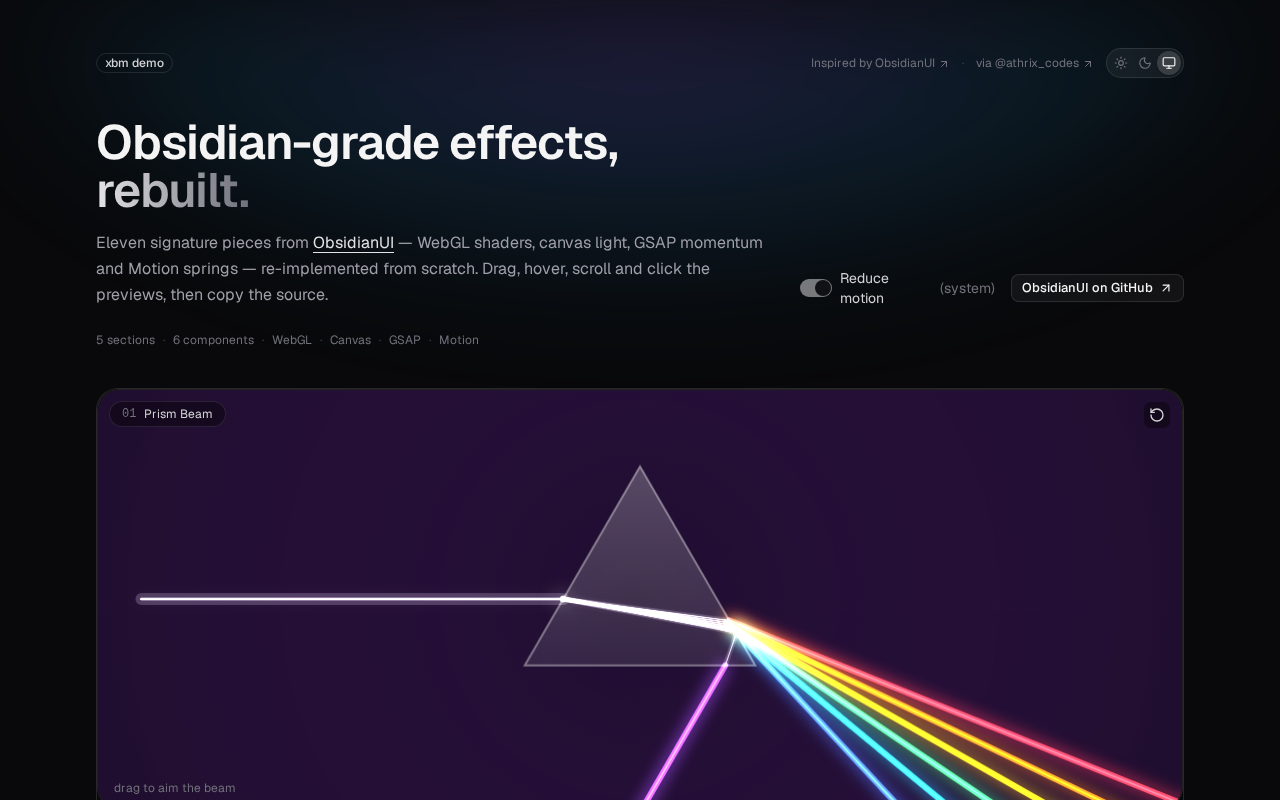
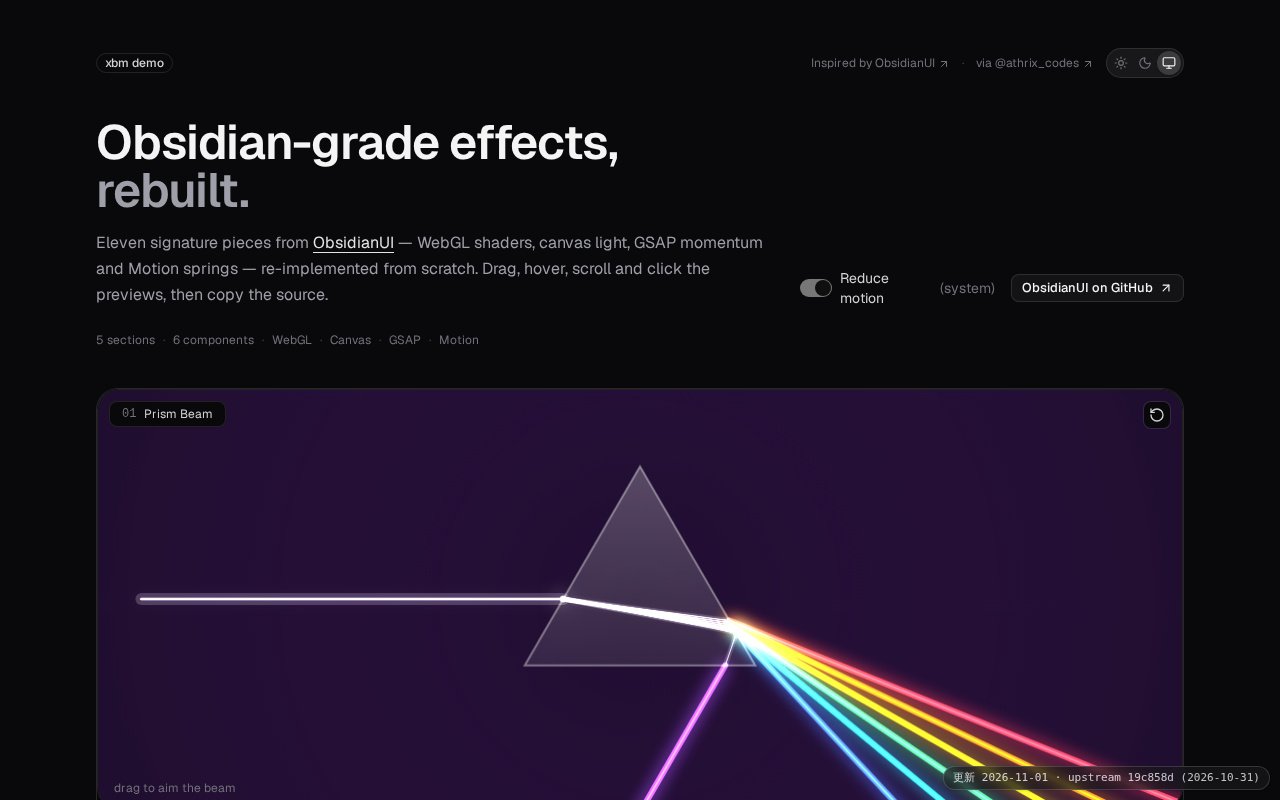
style(obsidian-ui): 实色页面框架，去渐变与毛玻璃

diff --git a/apps/obsidian-ui/src/App.tsx b/apps/obsidian-ui/src/App.tsx
@@ -52,11 +52,6 @@ export default function App() {
   return (
     <MotionConfig reducedMotion={reduced ? "always" : "user"}>
       <div className="min-h-svh overflow-x-clip bg-zinc-50 dark:bg-[#09090b] text-zinc-900 dark:text-zinc-100">
-        <div
-          aria-hidden="true"
-          className="pointer-events-none absolute inset-x-0 top-0 h-72 bg-[radial-gradient(ellipse_at_top,rgba(139,92,246,0.25),rgba(14,165,233,0.12)_50%,transparent_75%)] blur-3xl"
-        />
-
         <header className="relative mx-auto w-full max-w-6xl px-5 pt-12 pb-10 sm:px-8">
           <div className="flex flex-wrap items-center justify-between gap-x-4 gap-y-3">
             <Badge variant="outline" className="border-zinc-900/10 dark:border-white/10 text-zinc-700 dark:text-zinc-300">
@@ -90,7 +85,7 @@ export default function App() {
             <div className="max-w-2xl">
               <h1 className="text-4xl font-semibold tracking-tight text-zinc-900 dark:text-zinc-100 sm:text-5xl">
                 Obsidian-grade effects,{" "}
-                <span className="bg-gradient-to-r from-zinc-900 dark:from-zinc-200 to-zinc-500 bg-clip-text text-transparent">
+                <span className="text-zinc-500 dark:text-zinc-400">
                   rebuilt.
                 </span>
               </h1>

diff --git a/apps/obsidian-ui/src/components/ShowcaseSection.tsx b/apps/obsidian-ui/src/components/ShowcaseSection.tsx
@@ -44,7 +44,7 @@ export function ShowcaseSection({
         >
           <DemoComponent />
         </div>
-        <div className="absolute left-3 top-3 flex items-center gap-2 rounded-full border border-zinc-900/10 dark:border-white/10 bg-white/70 dark:bg-black/40 px-3 py-1 text-xs text-zinc-700 dark:text-zinc-300 backdrop-blur">
+        <div className="absolute left-3 top-3 flex items-center gap-2 rounded-md border border-zinc-900/10 dark:border-white/10 bg-white dark:bg-zinc-950 px-3 py-1 text-xs text-zinc-700 dark:text-zinc-300">
           <span className="font-mono text-zinc-500">{number}</span>
           <span>{def.title}</span>
         </div>
@@ -54,7 +54,7 @@ export function ShowcaseSection({
           size="icon-sm"
           aria-label="Remount demo"
           onClick={() => setRemountKey((k) => k + 1)}
-          className="absolute right-3 top-3 bg-white/70 dark:bg-black/40 text-zinc-700 dark:text-zinc-300 backdrop-blur"
+          className="absolute right-3 top-3 border border-zinc-900/10 dark:border-white/10 bg-white dark:bg-zinc-950 text-zinc-700 dark:text-zinc-300"
         >
           <RotateCcw className="h-3.5 w-3.5" />
         </Button>

diff --git a/apps/obsidian-ui/src/components/theme-toggle.tsx b/apps/obsidian-ui/src/components/theme-toggle.tsx
@@ -22,7 +22,7 @@ export function ThemeToggle() {
       role="radiogroup"
       aria-label="Theme"
       data-testid="theme-toggle"
-      className="inline-flex shrink-0 items-center rounded-full border border-zinc-900/10 bg-white/70 p-0.5 backdrop-blur dark:border-white/10 dark:bg-white/5"
+      className="inline-flex shrink-0 items-center rounded-full border border-zinc-900/10 bg-white p-0.5 dark:border-white/10 dark:bg-zinc-900"
     >
       {OPTIONS.map(({ value, label, icon: Icon }) => {
         const active = current === value

diff --git a/apps/obsidian-ui/src/components/ShowcaseCard.tsx b/apps/obsidian-ui/src/components/ShowcaseCard.tsx
@@ -51,7 +51,7 @@ export function ShowcaseCard({
           size="icon-sm"
           aria-label="Remount demo"
           onClick={() => setRemountKey((k) => k + 1)}
-          className="absolute left-2 top-2 bg-white/70 dark:bg-black/40 text-zinc-700 dark:text-zinc-300 backdrop-blur"
+          className="absolute left-2 top-2 border border-zinc-900/10 dark:border-white/10 bg-white dark:bg-zinc-950 text-zinc-700 dark:text-zinc-300"
         >
           <RotateCcw className="h-3.5 w-3.5" />
         </Button>
